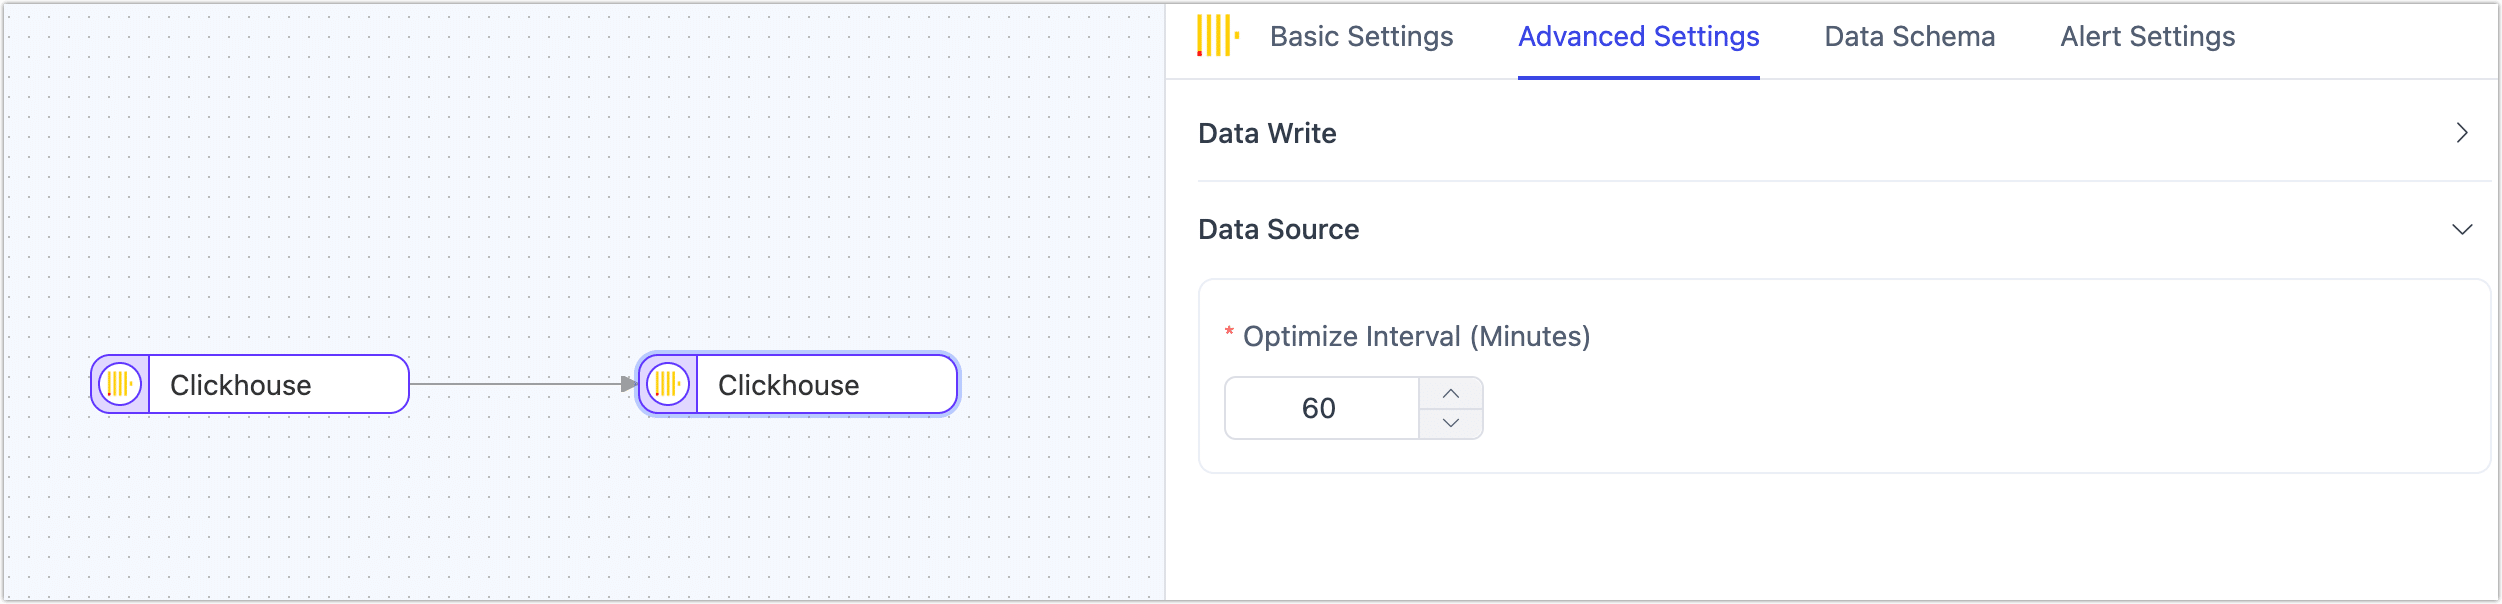
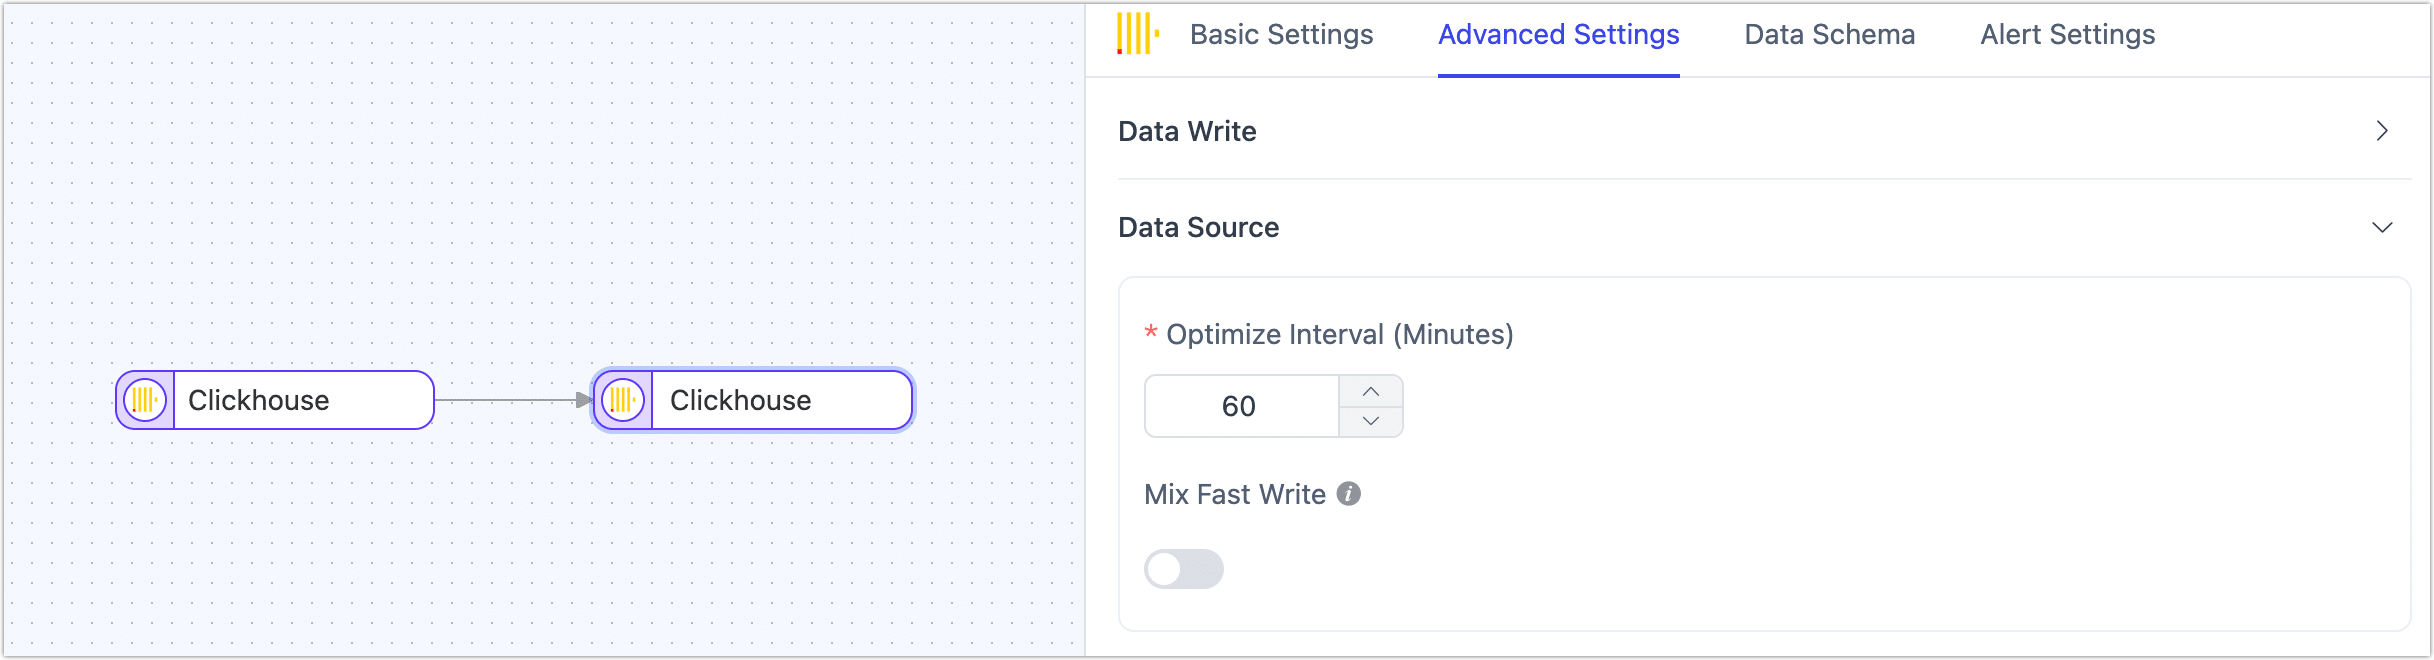
Update CH, PG, SQL Server, and MongoDB docs

diff --git a/docs/prerequisites/on-prem-databases/postgresql.md b/docs/prerequisites/on-prem-databases/postgresql.md
@@ -46,7 +46,9 @@ When using PostgreSQL as the target database or obtaining incremental data via t
 **INSERT**, **UPDATE**, **DELETE**
 
 :::tip
-When PostgreSQL is used as a target, you can choose write strategies through the advanced configuration of task nodes, such as updating or discarding on insert conflicts and inserting or just logging on update failures. You can also apply and execute source-database parsed operations like ADD COLUMN, CHANGE COLUMN, DROP COLUMN, and RENAME COLUMN.
+
+When used as a **target**, you can configure advanced write strategies in the task node settings. Options include update or discard on insert conflict, insert or log on update failure, and enable file-based writes. Additionally, you can apply and execute source-side ADD COLUMN, CHANGE COLUMN, DROP COLUMN, and RENAME COLUMN operations.
+
 :::
 
 ## Limitations
@@ -457,6 +459,7 @@ When configuring data synchronization/conversion tasks, you can use PostgreSQL a
   * **Partition Table CDC Root Table**: Supported only in PostgreSQL 13 and above, and when selecting the pgoutput log plugin. When enabled, only CDC events for root tables will be detected; when disabled, only CDC events for child tables will be detected.
 * As a Target Node
   * **Ignore NotNull**: Default is off, meaning NOT NULL constraints will be ignored when creating tables in the target database.
+  * **Enable File Input**: Disabled by default. When enabled, TapData uses the **[COPY](https://www.postgresql.org/docs/current/sql-copy.html)** method to efficiently batch write data in file format, avoiding performance degradation caused by constraint conflicts. This significantly improves synchronization efficiency for large datasets. Note that binary data types (bytea) are not supported in this mode.
 
 ## FAQs
 

diff --git a/docs/prerequisites/warehouses-and-lake/clickhouse.md b/docs/prerequisites/warehouses-and-lake/clickhouse.md
@@ -134,9 +134,14 @@ GRANT SELECT, INSERT, CREATE TABLE, ALTER TABLE, ALTER UPDATE, DROP TABLE, TRUNC
 
 ## Advanced Node Features
 
-When configuring data synchronization/transformation tasks with ClickHouse as a target node, you can set the Optimize Interval in the advanced node configuration to adjust the [Optimize Table](https://clickhouse.com/docs/en/sql-reference/statements/optimize) frequency, balancing performance and data consistency.
+When configuring data synchronization/transformation tasks and using ClickHouse as the target node, TapData offers a range of advanced features to better meet complex business requirements and maximize performance. You can configure these features according to your business needs:
 
 ![ClickHouse Advanced Node Features](../../images/clickhouse_node_advanced_settings.png)
+
+- **Optimize Interval**: Adjust the frequency of [Optimize Table](https://clickhouse.com/docs/en/sql-reference/statements/optimize) operations, measured in minutes, to achieve a balance between performance and data consistency.
+- **Mix Fast Write**: Disabled by default. When enabled, TapData will add two new fields to the target table to record modification time and deletion flag. Records with a deletion flag set to **1** will be automatically cleared using the modification time and TTL index. This approach allows updates and deletions to be executed by inserting new records with the same primary key, significantly improving write performance for relational data sources.
+
+
 
 ## Performance Testing
 

diff --git a/docs/prerequisites/supported-databases.md b/docs/prerequisites/supported-databases.md
@@ -12,7 +12,17 @@ If you need to synchronize DDL operations, you need to enable DDL collection and
 
 :::
 
+### Synchronization Types
 
+TapData supports two types of synchronization: **full synchronization** and **incremental synchronization**, covering both one-way and two-way synchronization scenarios. It is compatible with a variety of data sources, as described below:
+
+- **One-Way Synchronization**: Data is synchronized from the source to the target data source. For detailed support information on incremental synchronization, refer to the data source support table in this document.
+- **Two-Way Synchronization**: Enables real-time bidirectional data flow between source and target data sources, ensuring data consistency on both ends. For detailed configuration steps, see [Bidirectional Synchronization Case](../case-practices/pipeline-tutorial/mysql-bi-directional-sync.md). Currently, the following data sources support **Two-Way Synchronization**, applicable to both full and incremental synchronization scenarios:
+  - MySQL ↔ MySQL
+  - PostgreSQL ↔ PostgreSQL
+  - MongoDB ↔ MongoDB
+  - PostgreSQL ↔ MySQL
+  - SQL Server ↔ SQL Server
 
 ```mdx-code-block
 import Tabs from '@theme/Tabs';

diff --git a/docs/case-practices/pipeline-tutorial/mysql-bi-directional-sync.md b/docs/case-practices/pipeline-tutorial/mysql-bi-directional-sync.md
@@ -27,7 +27,7 @@ TapData helps enterprises achieve the following goals through cross-regional dat
 
 :::tip
 
-Tapdata supports bi-directional data synchronization for MySQL ↔ MySQL, PostgreSQL ↔ PostgreSQL, MongoDB ↔ MongoDB, and PostgreSQL ↔ MySQL. Next, we will introduce the specific operation process using MySQL bi-directional synchronization as an example.
+Tapdata supports bi-directional data synchronization for MySQL ↔ MySQL, PostgreSQL ↔ PostgreSQL, MongoDB ↔ MongoDB, PostgreSQL ↔ MySQL, and SQL Server ↔ SQL Server. Next, we will introduce the specific operation process using MySQL bi-directional synchronization as an example.
 
 :::
 
